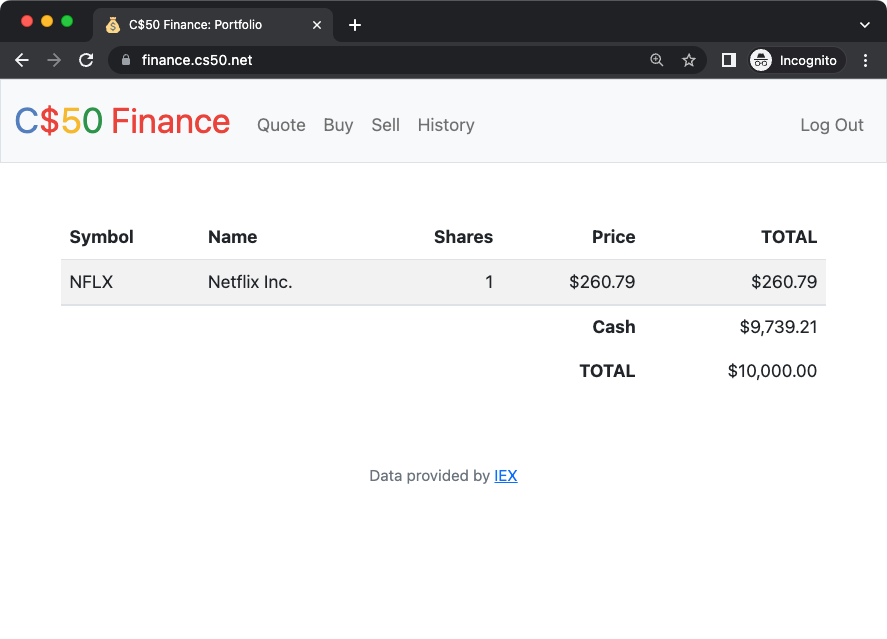
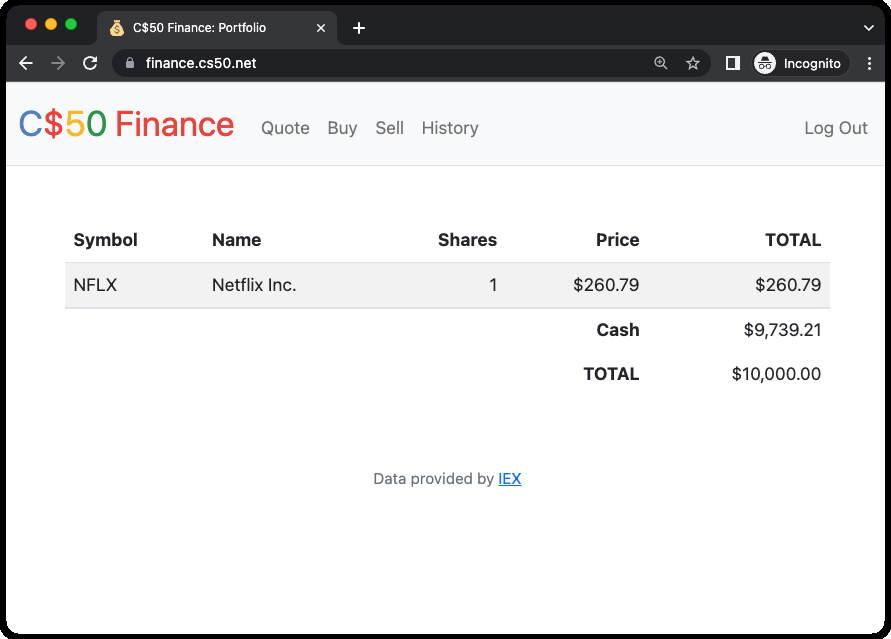
image update

diff --git a/README.md b/README.md
@@ -5,7 +5,7 @@ The Stock Trading Application is a simulation platform inspired by services like
 
 ## Preview
 <p align="center">
-<img src="/static/finance.png" alt="example" width="70%" />
+<img src="/static/finance.png" alt="example" width="85%" />
 </p>
 
 # Installation
